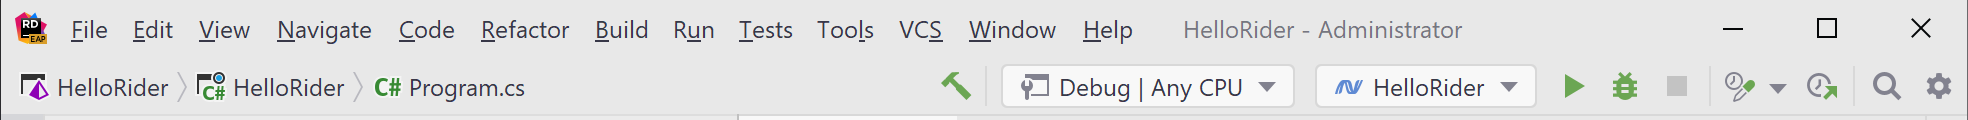
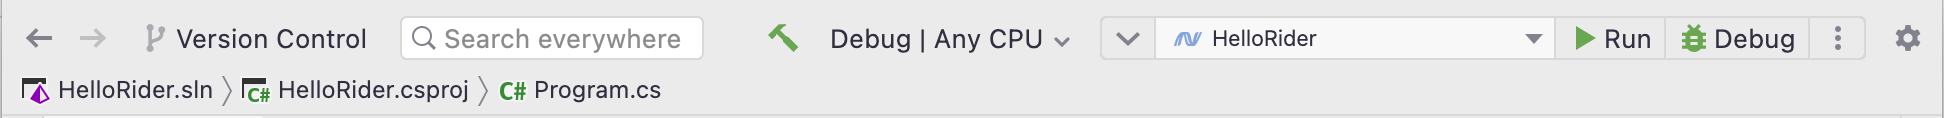
Updated guide with Rider run widget and toolbar sections

diff --git a/sites/dotnet-guide/contents/tutorials/resharper-to-rider/rider-debugger-for-resharper-users/index.md b/sites/dotnet-guide/contents/tutorials/resharper-to-rider/rider-debugger-for-resharper-users/index.md
@@ -10,7 +10,7 @@ subtitle: Learn the basics of the Rider debugger from a Visual Studio + ReSharpe
 thumbnail: ./thumbnail.png
 ---
 
-As developers, we try our hardest to avoid introducing bugs and exceptions into our codebase. Unfortunately, regardless of the care we take, mistakes are inevitable. The debugging experience is a stand-out feature of the .NET platform, and it gets even better withing JetBrains Rider. Many of the same features ReSharper users have learned to enjoy are there in the Rider experience, along with some additional UI upgrades that we know our users love.
+As developers, we try our hardest to avoid introducing bugs and exceptions into our codebase. Unfortunately, regardless of the care we take, mistakes are inevitable. The debugging experience is a stand-out feature of the .NET platform, and it gets even better with JetBrains Rider. Many of the same features ReSharper users have learned to enjoy are there in the Rider experience, along with some additional UI upgrades that we know our users love.
 
 ## Main Toolbar and Run Button
 
@@ -21,6 +21,12 @@ One of the first changes developers will notice from Visual Studio is the **Run*
 - Utilize more resources during development than is necessary.
 
 In Rider, users will see a clear functional difference, as the **Run** button will only start the current run configuration. To attach the debugger, we can either click the **Debug** icon, use the **Debug** shortcut, or attach the debugger to an existing process.
+
+When you initiate a debugging session, the **run widget** will change in appearance with a clear yellow highlight and the word **Debugging** next to the run configuration name. You'll also notice the visible buttons have changed to provide quicker access to debugging actions **restart**, **resume**, and **stop**.
+
+![Rider main toolbar](./rider-debugger-main-toolbar.png)
+
+The **run widget** is a recent addition to Rider and should help you more easily transition from Visual Studio. While the run widget is the most prominent debugging interface in Rider, as you continue to read, you'll see we've exposed several ways to interact with a debugging session.
 
 ## Debugging Shortcuts
 
@@ -39,7 +45,7 @@ Unlike Visual Studio, Rider has a dedicated window for all things debugging. Thi
 
 ![JetBrains Rider debugger tool window](./rider-debugger-tool-window.png)
 
-In addition to relevant information about our application, we can also access the debugging toolbar on the window's far-left border. Here we can **restart**, **resume**, **pause**, and **stop** the current debugging session.
+In addition to relevant information about our application, we can also access the debugging toolbar on the window's top-most border. Here we can **restart**, **stop**, **resume**, and **pause** the current debugging session. We can also **step-over**, **step-into**, and **step-out** of our code. Finally we have some additional elements to quickly manage breakpoints.
 
 ![JetBrains Rider debugger tool window's buttons](./rider-debugger-tool-window-buttons.png)
 

diff --git a/sites/dotnet-guide/contents/tutorials/resharper-to-rider/visual-studio-rider-toolbar/index.md b/sites/dotnet-guide/contents/tutorials/resharper-to-rider/visual-studio-rider-toolbar/index.md
@@ -30,29 +30,14 @@ When looking at Rider's toolbar, we'll notice it is a bit more sparse by default
 
 ![JetBrains Rider's default toolbar](./rider-default-toolbar.png)
 
-- Build Solution
-- Solution Configurations dropdown
-- Run Configurations dropdown
-- Run (Play) button
-- Debug (Bug) button
-- Stop button
-- Profiling
-- Attach To Process
-- Search Everywhere
+- Version Control Widget
+- Search Everywhere button
+- Build Solution button
+- Solution Configurations
+- Run Widget (Run, Debug, Attach to Process)
 - IDE and Project Settings
 
-Developers moving from Visual Studio might want the **Back** and **Forwards** navigation buttons. Rider hides those actions by default but can we can add them back by going to `View \| Appearance \| Toolbar`, after which we'll get an additional set of actions:
-
-- Open
-- Save All
-- Reload From Disk
-- Navigation buttons
-
-![JetBrains Rider Toolbar with additional navigation items](./rider-with-toolbar-extra.png)
-
-As in Visual Studio, the toolbar is highly customizable. We can right-click anywhere on the toolbar and click the resulting `Customize Menus and Toolbars...` option. A new dialog should appear with Rider's menu and toolbar locations ready to be customized for our unique workflow style.
-
-![JetBrains Rider Toolbar With Customizations](./rider-toolbar-customizations.png)
+The **Run Widget** is of particular interest as you'll be using it to run and debug applications. It's quite intuitive to use and you'll be reading more about it in the debugger section of this guide.
 
 While the UI is fully customizable, Rider's development team has gone through the meticulous process of making all functionality accessible via shortcut keys. The **Search Everywhere** feature is beneficial, as it is only a <kbd>Shift+Shift</kbd> away from helping developers find the action they need.
 
